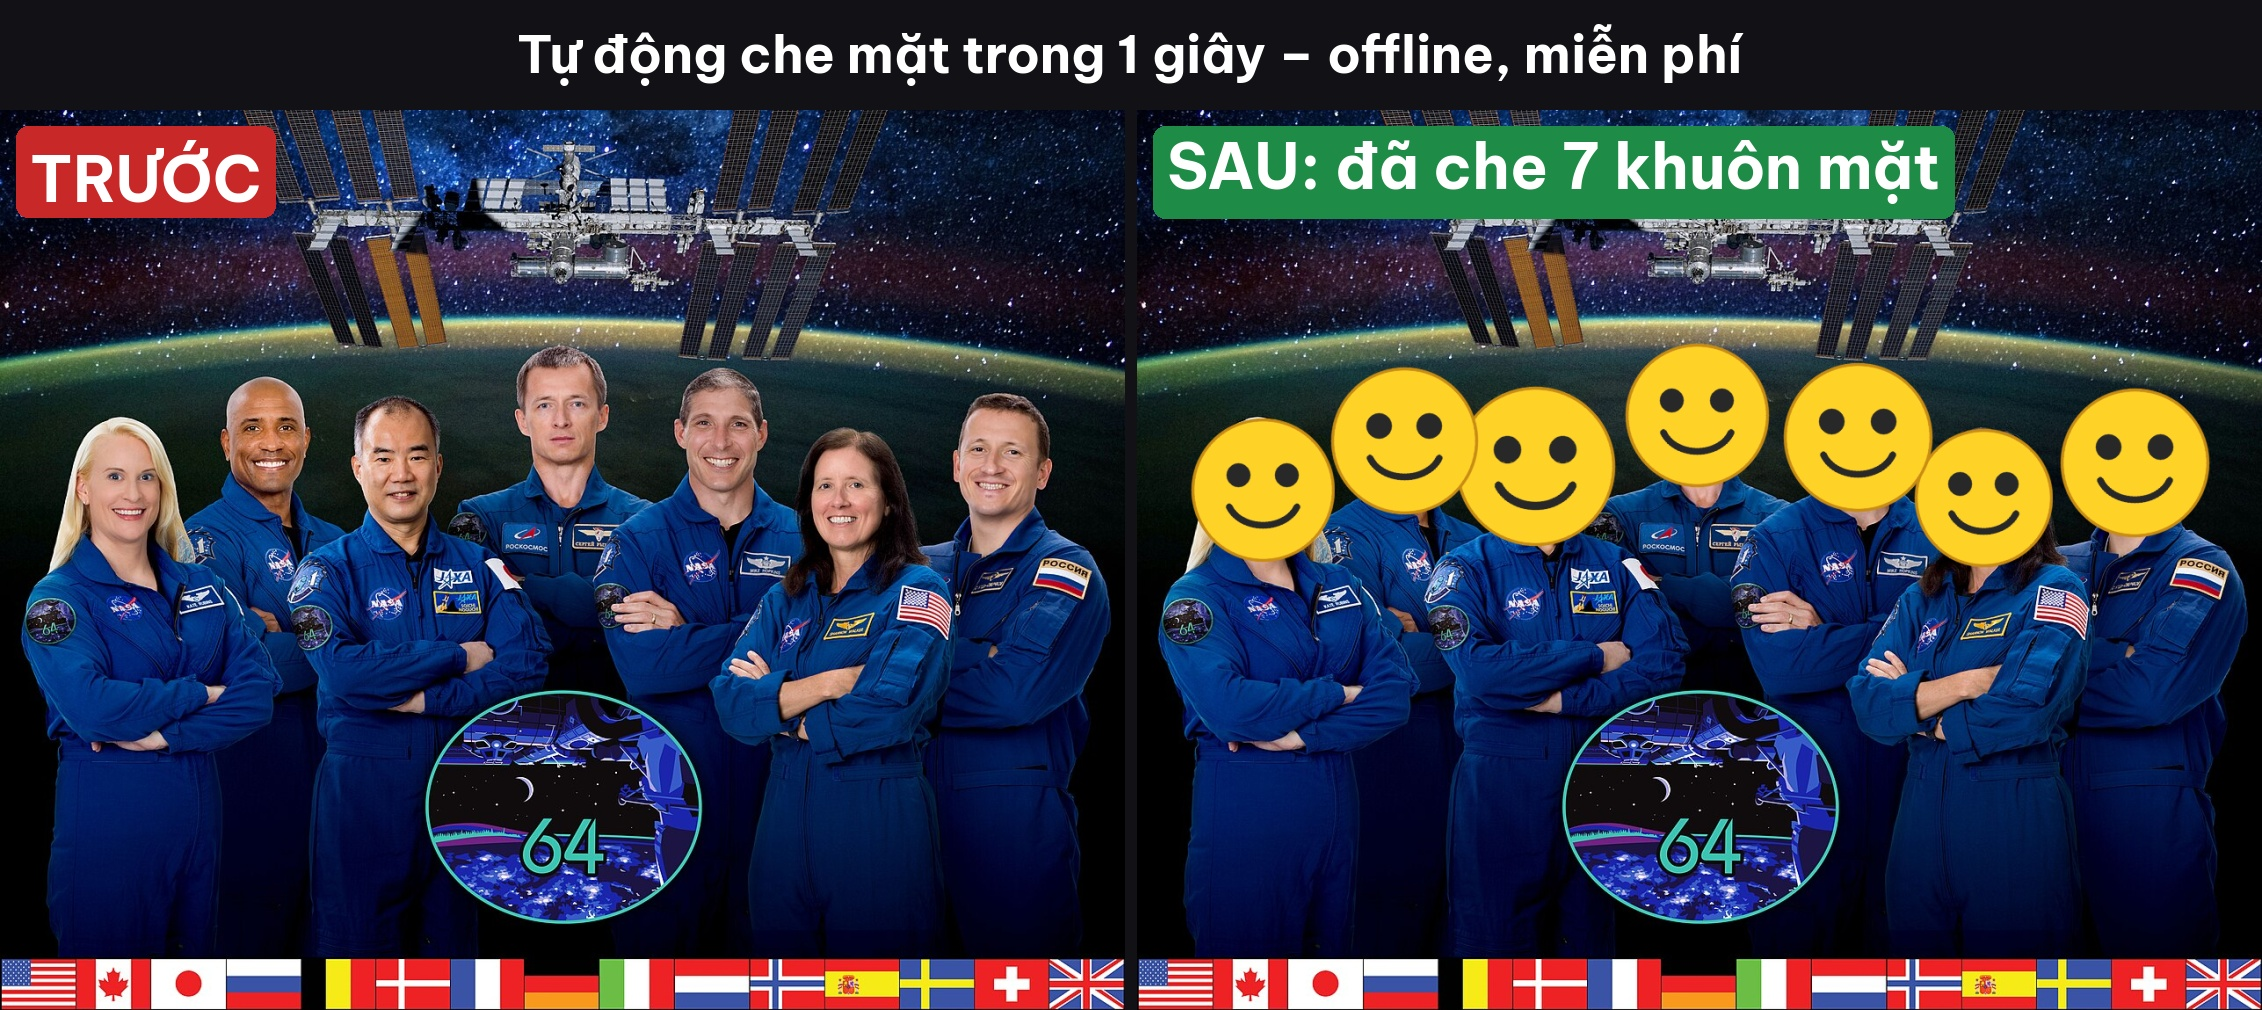
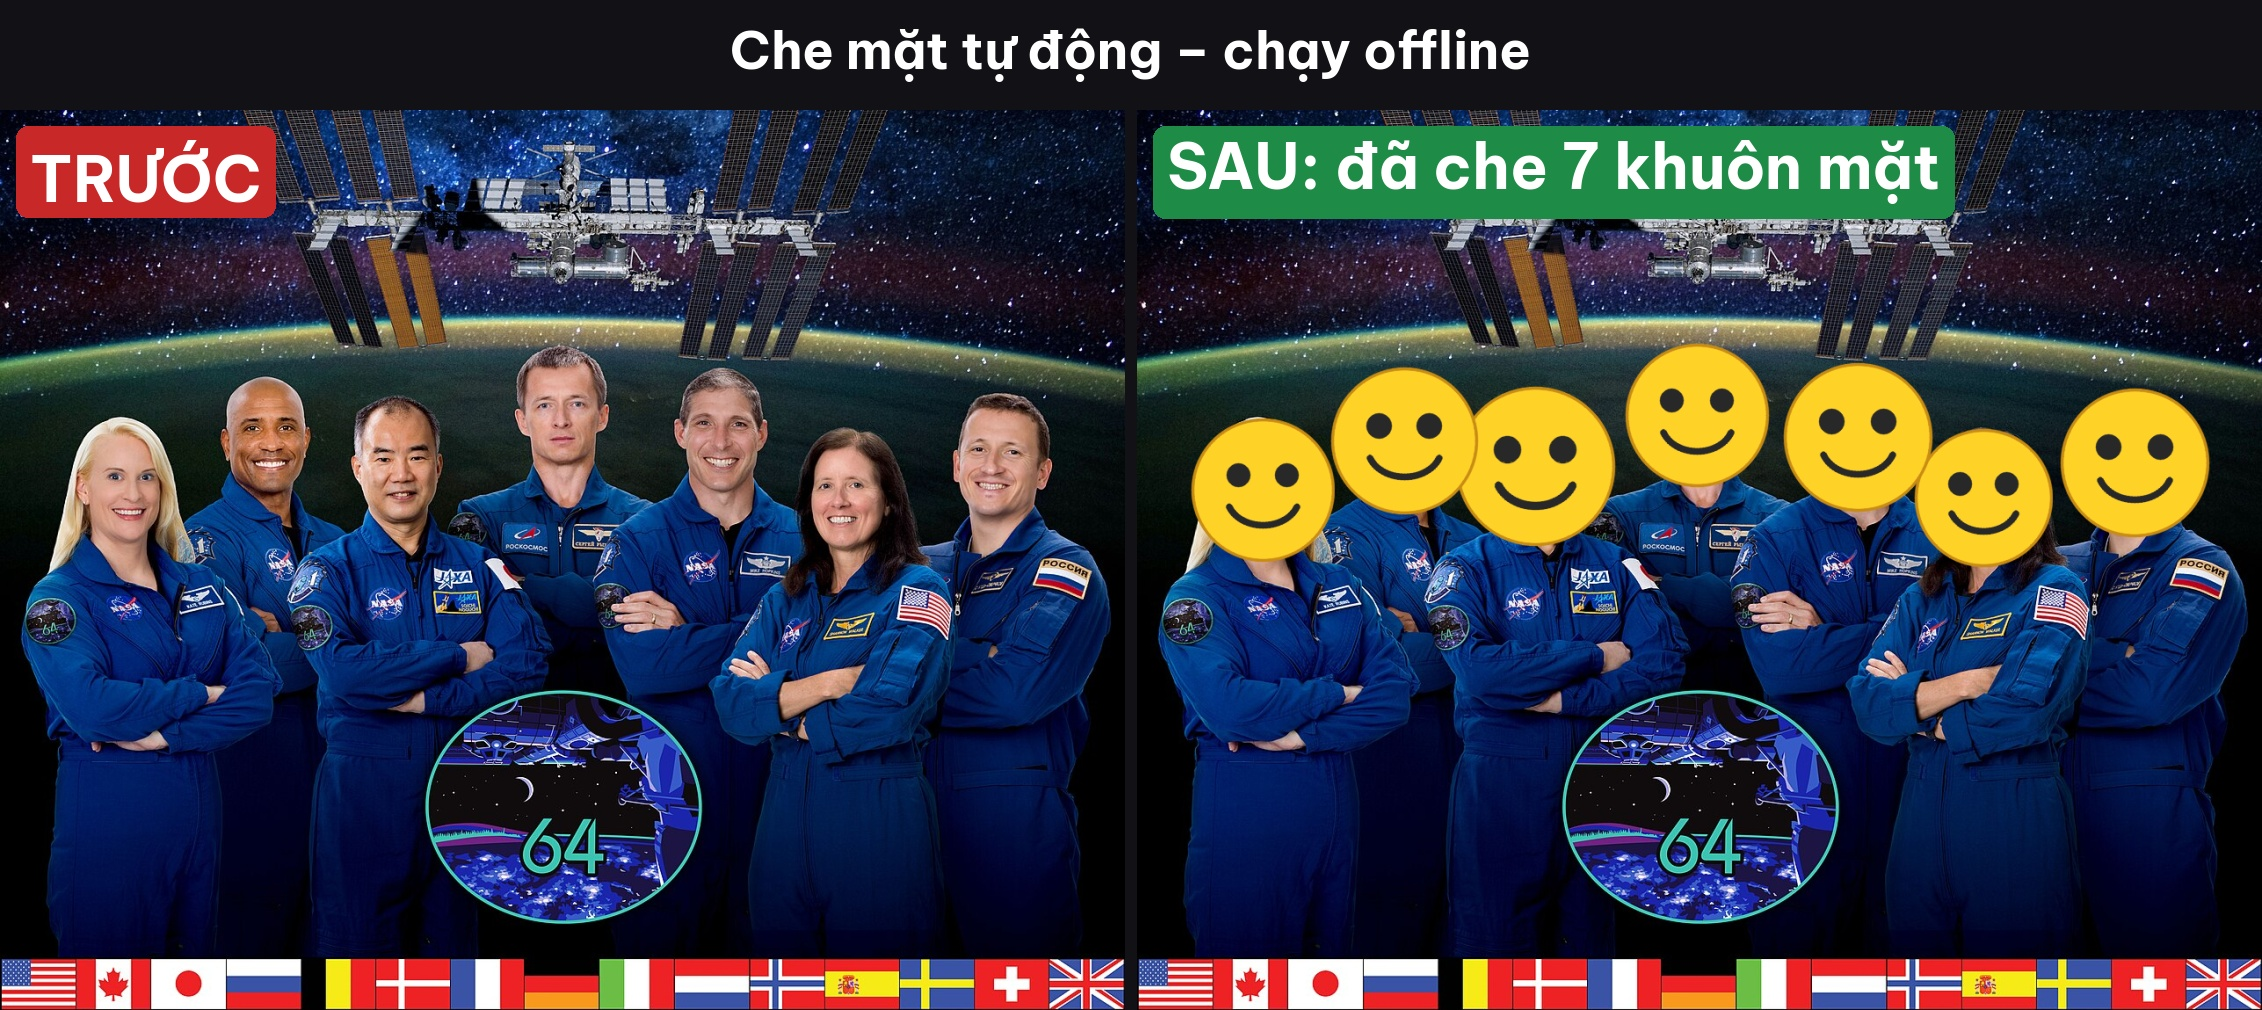
Sửa mô tả cho trung thực, đổi chú thích ảnh so sánh, thêm mục giấy phép bên thứ ba

Changed region(s): [[0.2166, 0.0307, 0.7737, 0.0921]]

diff --git a/anmat/compare.py b/anmat/compare.py
@@ -45,7 +45,7 @@ def before_after(before, after, n_faces, title=None):
     canvas.paste(b, (a.width + gap, head))
     d = ImageDraw.Draw(canvas)
     f = _font(52)
-    text = title or "Tự động che mặt trong 1 giây – offline, miễn phí"
+    text = title or "Che mặt tự động – chạy offline"
     l, t, r, bb = d.textbbox((0, 0), text, font=f)
     d.text(((canvas.width - (r - l)) // 2 - l, (head - (bb - t)) // 2 - t), text, font=f, fill="white")
     return cv2.cvtColor(np.array(canvas), cv2.COLOR_RGB2BGR)

diff --git a/README.md b/README.md
@@ -1,6 +1,8 @@
-# anmat – Ẩn mặt tự động trong 1 giây
+# anmat – Ẩn mặt tự động, chạy offline
 
-Chụp ảnh nhóm, quay video ngoài đường muốn đăng lên mạng nhưng **không muốn lộ mặt người lạ**? `anmat` tự tìm **mọi khuôn mặt** trong ảnh hoặc video rồi che lại (làm mờ, pixel, hộp đen hoặc mặt cười) – chạy **offline trên máy bạn**, miễn phí, không upload ảnh lên đâu cả.
+Chụp ảnh nhóm, quay video ngoài đường muốn đăng lên mạng nhưng **không muốn lộ mặt người lạ**? `anmat` tự dò các khuôn mặt trong ảnh hoặc video rồi che lại (làm mờ, pixel, hộp đen hoặc mặt cười) – chạy **offline trên máy bạn**, miễn phí, không upload ảnh lên đâu cả.
+
+> ⚠ Công cụ có thể **bỏ sót** mặt nhỏ, mặt quay nghiêng hoặc bị che khuất. Luôn **kiểm tra lại ảnh/video kết quả** trước khi đăng.
 
 ![Trước / sau – làm mờ](docs/truoc_sau_mo.jpg)
 
@@ -10,7 +12,7 @@ Chụp ảnh nhóm, quay video ngoài đường muốn đăng lên mạng nhưng
 
 ## Tính năng
 
-- Nhận diện khuôn mặt bằng mạng nơ-ron nhỏ (~230KB) của OpenCV, tự tải ở lần chạy đầu; không có mạng thì tự chuyển sang bộ dò Haar có sẵn.
+- Nhận diện khuôn mặt bằng model YuNet (~230KB, OpenCV Zoo) chạy qua `cv2.FaceDetectorYN`, tự tải về `~/.cache/anmat` ở lần chạy đầu; nếu không tải được thì chuyển sang Haar cascade `haarcascade_frontalface_default.xml` có sẵn trong gói OpenCV (chỉ dò tốt mặt nhìn thẳng, kém chính xác hơn).
 - 4 kiểu che: `mo` (mờ elip viền mềm), `pixel`, `den` (hộp đen), `emoji` (mặt cười).
 - Xử lý **ảnh, video, hoặc cả thư mục** một lần.
 - Tuỳ chọn xuất **ảnh so sánh TRƯỚC / SAU** có chữ tiếng Việt – đăng mạng xã hội luôn.
@@ -57,11 +59,11 @@ Kết quả được lưu cạnh file gốc với hậu tố `_anmat`.
 ## Demo quay Reel (20–30 giây)
 
 1. Mở ảnh nhóm `examples/phi-hanh-doan.jpg` cho người xem thấy 7 gương mặt rõ nét.
-2. Gõ lệnh `python -m anmat examples/phi-hanh-doan.jpg --kieu emoji --so-sanh` – terminal báo "7 mặt, 0.06s".
-3. Mở `phi-hanh-doan_truoc_sau.jpg`: bên trái mặt rõ, bên phải 7 mặt cười che kín.
+2. Gõ lệnh `python -m anmat examples/phi-hanh-doan.jpg --kieu emoji --so-sanh` – terminal báo số mặt tìm được và thời gian xử lý (trên máy thử nghiệm, với ảnh mẫu này, mất khoảng 0,06 giây; thời gian thực tế tuỳ cấu hình máy và kích thước ảnh).
+3. Mở `phi-hanh-doan_truoc_sau.jpg`: bên trái mặt rõ, bên phải các mặt đã được che – vẫn nên soát lại xem có sót mặt nào không.
 4. Chạy lại với `--kieu mo` và `--kieu pixel` để đổi kiểu trong vài giây.
 
-**Câu hook gợi ý cho Reel:** "Đăng ảnh nhóm mà sợ lộ mặt người lạ? Một dòng lệnh, 0,1 giây, che sạch mọi khuôn mặt – không cần app trả phí!"
+**Câu hook gợi ý cho Reel:** "Đăng ảnh nhóm mà sợ lộ mặt người lạ? Một dòng lệnh để tự động che mặt, chạy offline – nhớ soát lại trước khi đăng!"
 
 ## Giới hạn
 
@@ -70,9 +72,21 @@ Kết quả được lưu cạnh file gốc với hậu tố `_anmat`.
 
 ## Ghi công
 
-- Model nhận diện khuôn mặt YuNet thuộc [OpenCV Zoo](https://github.com/opencv/opencv_zoo) (giấy phép MIT), được tải về lúc chạy, không đi kèm repo.
 - Ảnh mẫu là ảnh chân dung phi hành đoàn của NASA (phạm vi công cộng – public domain), lấy từ Wikimedia Commons.
 
+## Giấy phép bên thứ ba
+
+`anmat` sử dụng các thành phần sau (không có thành phần nào được đóng gói sẵn trong repo; chúng được cài qua `pip` hoặc tải về lúc chạy):
+
+| Thành phần | Cách dùng | Giấy phép |
+|---|---|---|
+| [OpenCV](https://github.com/opencv/opencv) (`opencv-python-headless`) | Đọc/ghi ảnh, video, làm mờ, chạy model | Apache-2.0 |
+| Model YuNet `face_detection_yunet_2023mar.onnx` từ [OpenCV Zoo](https://github.com/opencv/opencv_zoo/tree/main/models/face_detection_yunet) | Tải về lúc chạy lần đầu | MIT (© 2020 Shiqi Yu) |
+| Haar cascade `haarcascade_frontalface_default.xml` | Dự phòng khi không tải được YuNet; đi kèm gói OpenCV | Intel License Agreement for Open Source Computer Vision Library (kiểu BSD) |
+| [NumPy](https://numpy.org) | Xử lý mảng ảnh | BSD-3-Clause |
+| [Pillow](https://python-pillow.org) | Vẽ chữ tiếng Việt lên ảnh so sánh | MIT-CMU (HPND) |
+
+Font chữ trên ảnh so sánh lấy từ font đã cài sẵn trên máy (không đóng gói kèm repo).
 ## Giấy phép
 
 MIT © 2026 Viet Phan
